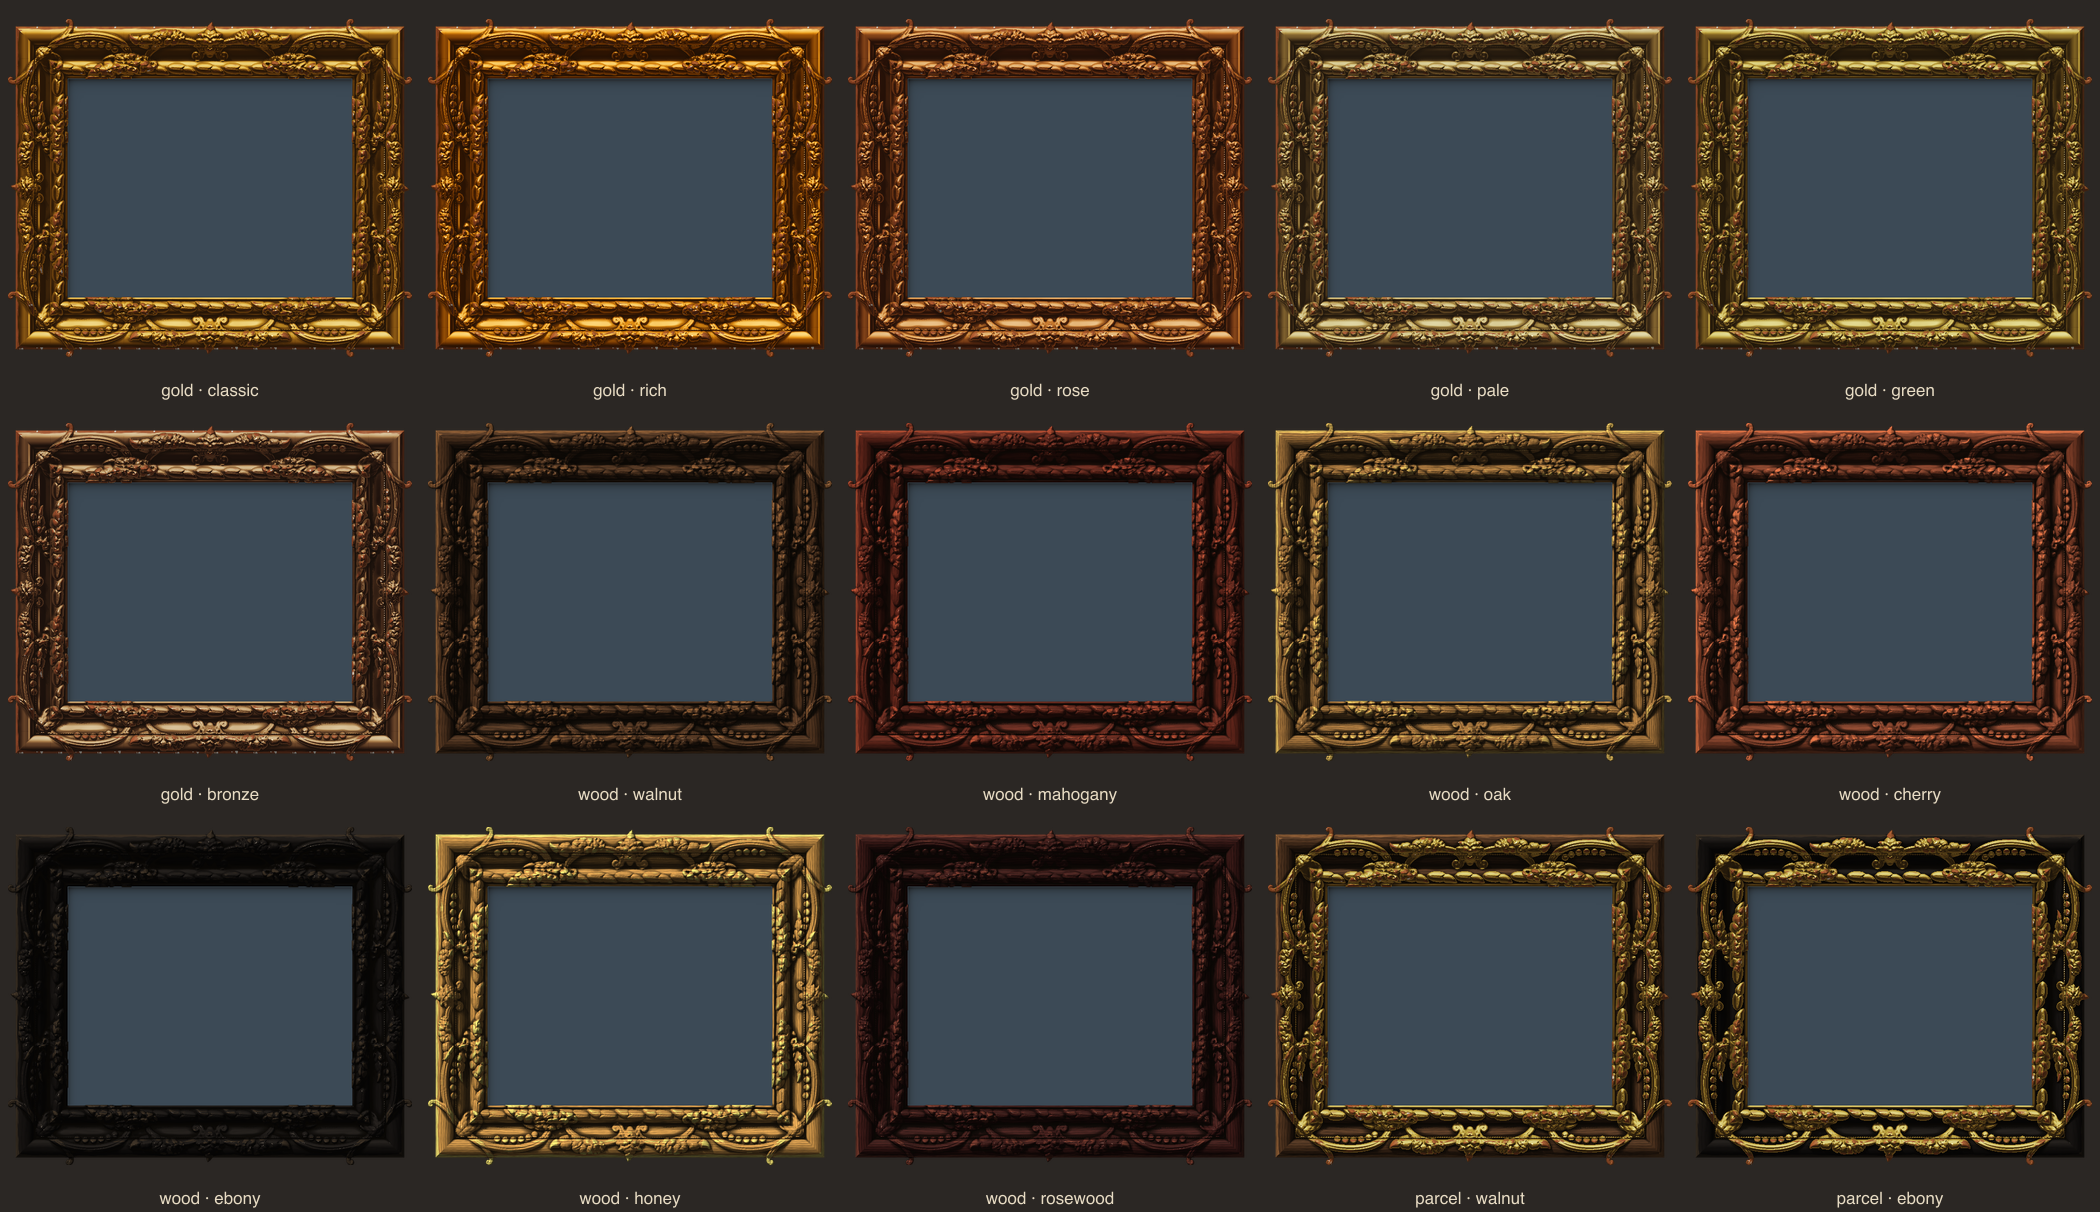
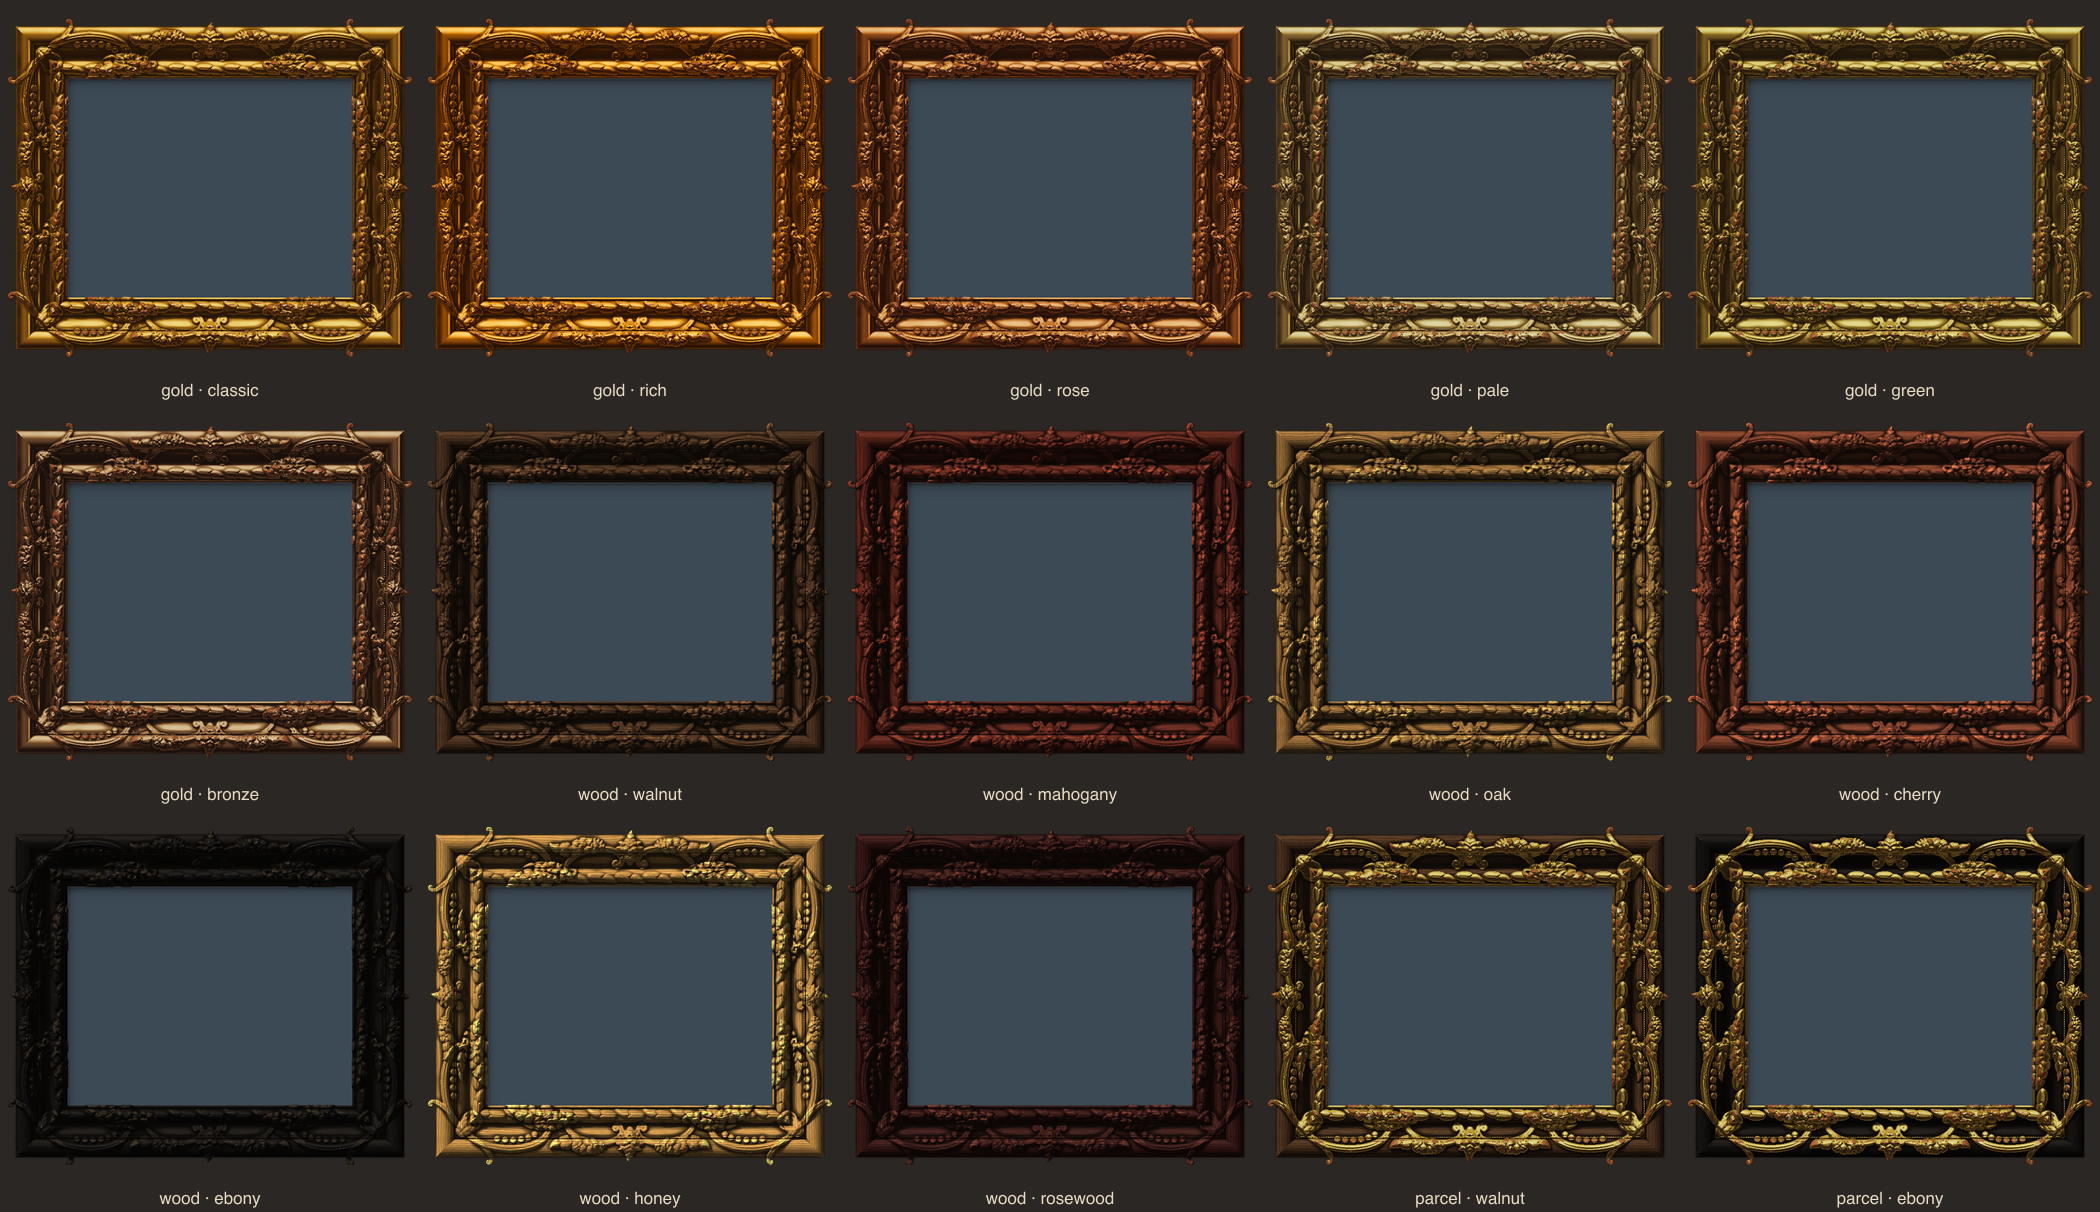
Fix stray white specks along frame edges
Edge lighting ignored that the margin and picture opening aren't surface,
so the 1px rim read as a ridge and attracted gesso chips; the cavity blur
also saw the empty margin as a cliff, making the whole rim look proud.
Chips are now coarse blobs on proud carving only, never on the rims.

diff --git a/src/frame.js b/src/frame.js
@@ -286,10 +286,12 @@ export function relief(S) {
     }
   }
   const { q, qw, qh, BQ } = S;
+  const edgeH = P.h[0];
   const Q = new Float32Array(qw * qh), tmp = new Float32Array(qw * qh);
   for (let y = 0; y < ch; y++) {
     const o = ((y / q) | 0) * qw;
-    for (let x = 0; x < cw; x++) Q[o + ((x / q) | 0)] += Hf[y * cw + x];
+    // empty margin isn't a cliff: treat it as level with the outer edge so rims don't read as proud carving
+    for (let x = 0; x < cw; x++) { const i = y * cw + x; Q[o + ((x / q) | 0)] += M[i] ? Hf[i] : edgeH; }
   }
   for (let y = 0; y < qh; y++) for (let x = 0; x < qw; x++) Q[y * qw + x] /= Math.min(q, ch - y * q) * Math.min(q, cw - x * q);
   blur(Q, BQ, qw, qh, Math.max(1, (Tr * 0.035) / q), tmp);
@@ -303,7 +305,7 @@ export function shadeRows(S, y0, y1) {
   const grainA = 256 / (Tr * 4), grainD = 256 / (Tr * 0.7), ringF = (2 * Math.PI * wood.rings) / (Tr * 0.055);
   const poreA = 256 / (Tr * 1.2), poreD = 256 / Math.max(2, Tr * 0.035), wShin = 20 + 90 * wood.gloss;
   const cavScale = 1 / (Tr * 0.022), convScale = 1 / Math.max(0.6, Tr * 0.004), rc = Math.max(1, Math.round(Tr * 0.006));
-  const leafSize = Tr * wear.leaf, wearAmt = wear.amount, crackW = wear.crack ? 0.35 + 0.5 * wearAmt : 0;
+  const rimW = 2 + Tr * 0.015, leafSize = Tr * wear.leaf, wearAmt = wear.amount, crackW = wear.crack ? 0.35 + 0.5 * wearAmt : 0;
   const lowS = 256 / Math.max(32, Tr * 1.6), wearS = 256 / Math.max(16, Tr * 0.45);
   const exposure = 2.5;
   const holeReach = Tr + S.reach, sTop = Tr * 0.07, sLeft = Tr * 0.05, sHair = Math.max(0.8, Tr * 0.008);
@@ -340,8 +342,11 @@ export function shadeRows(S, y0, y1) {
         if (al > 0.004) { out[o] = 12; out[o + 1] = 8; out[o + 2] = 4; out[o + 3] = al * 255; }
         continue;
       }
-      const hx = x > 0 && x < cw - 1 ? (Hf[i + 1] - Hf[i - 1]) * 0.5 : 0;
-      const hy = y > 0 && y < ch - 1 ? (Hf[i + cw] - Hf[i - cw]) * 0.5 : 0;
+      // Slopes and ridges only look at solid neighbours: the empty margin and the picture opening
+      // aren't surface, and treating them as a cliff turns the 1px edge fringe into a fake ridge.
+      const nb = (j) => (M[j] && M[j] !== HOLE ? Hf[j] : h);
+      const hx = x > 0 && x < cw - 1 ? (nb(i + 1) - nb(i - 1)) * 0.5 : 0;
+      const hy = y > 0 && y < ch - 1 ? (nb(i + cw) - nb(i - cw)) * 0.5 : 0;
       const nl = 1 / Math.sqrt(hx * hx + hy * hy + 1), nx = -hx * nl, ny = -hy * nl, nz = nl;
       const diff = Math.max(0, nx * KEY[0] + ny * KEY[1] + nz * KEY[2]) * (1 - 0.85 * sh);
       const px = x + 0.5, py = y + 0.5;
@@ -356,11 +361,12 @@ export function shadeRows(S, y0, y1) {
         // Wear: exposure decides where hands and dusting cloths reach — proud carving, sharp ridges,
         // outer edges. Noise is stretched along the moulding so abrasion reads as streaks, not spots.
         const xa = Math.max(0, x - rc), xb = Math.min(cw - 1, x + rc), ya = Math.max(0, y - rc), yb = Math.min(ch - 1, y + rc);
-        const conv = (h - 0.25 * (Hf[y * cw + xa] + Hf[y * cw + xb] + Hf[ya * cw + x] + Hf[yb * cw + x])) * convScale;
+        const conv = (h - 0.25 * (nb(y * cw + xa) + nb(y * cw + xb) + nb(ya * cw + x) + nb(yb * cw + x))) * convScale;
         const prom = (h - bl) * cavScale;
         const along = d === py - oy ? px : d === ox + Wo - px ? py : d === oy + Ho - py ? -px : -py;
         const wn = sample(nWear, along * wearS * 0.22, d * wearS * 2.2);
-        const expo = Math.min(1.6, Math.max(0, prom) * 0.55) + Math.min(0.7, Math.max(0, conv) * 0.12) + (d < Tr * 0.035 ? 0.55 : 0);
+        const carved = Math.min(1.6, Math.max(0, prom) * 0.55) + Math.min(0.7, Math.max(0, conv) * 0.12);
+        const expo = carved + (d < Tr * 0.035 ? 0.55 : 0);
         const rub = smooth(0, 0.35, expo * 0.85 + (wn - 0.5) * 0.9 - 1.3 + wearAmt * 1.35);
         if (mat === WOOD) {
           // Carved wood under varnish: grain-figured albedo, diffuse light, a clear-coat highlight.
@@ -409,8 +415,10 @@ export function shadeRows(S, y0, y1) {
             const v = (0.4 + 0.75 * diff) * ao;
             const t = rub * (0.6 + 0.4 * sample(nFine, px * 1.7, py * 1.7)); // gold hangs on in the rub
             r += (bole[0] * v - r) * t; gg += (bole[1] * v - gg) * t; b += (bole[2] * v - b) * t;
-            const cn = sample(nWear, px * wearS * 0.6 + 97, py * wearS * 0.6 + 41);
-            const chip = smooth(0.82, 0.88, cn + 0.08 * wear.chips) * smooth(0.75, 1, rub) * (expo > 0.5 ? 1 : 0);
+            // Chips are where a flake of gesso broke away: coarse blobs on the proudest carving only.
+            // Fine noise or thin features would make them read as stray specks, so neither is used.
+            const cn = sample(nWear, px * wearS * 0.2 + 97, py * wearS * 0.2 + 41);
+            const chip = smooth(0.86, 0.9, cn + 0.06 * wear.chips) * smooth(0.85, 1, rub) * smooth(0.8, 1.1, carved) * (d > rimW && d < Tr - rimW ? 1 : 0);
             if (chip > 0) {
               const gv = (0.5 + 0.55 * diff) * ao;
               r += (gesso[0] * gv - r) * chip; gg += (gesso[1] * gv - gg) * chip; b += (gesso[2] * gv - b) * chip;
